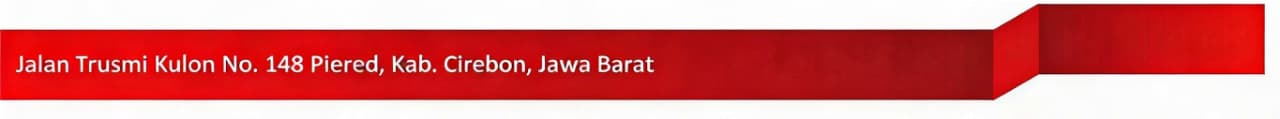
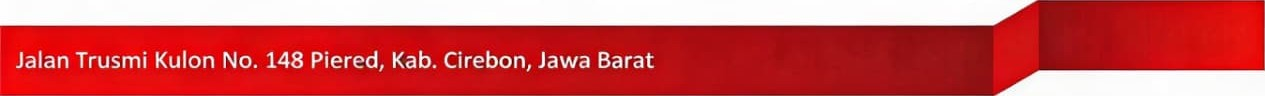
V11

diff --git a/index.html b/index.html
@@ -175,11 +175,22 @@ h5 {
 }
 
 /* ===== FOOTER MERAH ===== */
-.footer {
-  position:absolute;
-  bottom:0;
-  left:20mm;
-  width:calc(100% - 40mm); /* kiri + kanan */
+.surat-footer {
+  position: absolute;
+  bottom: 0;
+
+  left: -14.5mm;
+  width: calc(100% + 29mm);
+}
+
+.surat-footer img {
+  width: 100%;
+  height: auto;
+  display: block;
+}
+
+.footer-inner {
+  width: 100%;
 }
 
 .footer img {
@@ -861,9 +872,47 @@ body {
   box-shadow: 0 8px 20px rgba(0, 200, 83, 0.4);
 }
 
+.drop-area {
+  border: 2px dashed #c90000;
+  border-radius: 12px;
+  padding: 20px;
+  text-align: center;
+  cursor: pointer;
+  background: #fff5f5;
+  transition: 0.3s;
+}
+
+.drop-area:hover {
+  background: #ffe5e5;
+}
+
+.drop-area.dragover {
+  background: #ffd6d6;
+  border-color: #ff0000;
+}
+
+.lampiran-preview {
+  display: grid;
+  grid-template-columns: repeat(auto-fill, minmax(100px,1fr));
+  gap: 10px;
+  margin-top: 10px;
+}
+
+.lampiran-preview img {
+  width: 100%;
+  height: 80px;
+  object-fit: cover;
+  border-radius: 8px;
+  border: 1px solid #ddd;
+}
+
+
+
 </style>
 </head>
 <body>
+
+<div id="topLoader"></div>
 
 <div id="sidebar">
   <div class="sidebar-header">
@@ -1033,8 +1082,12 @@ body {
         <input type="file" id="ttd2" class="form-control mb-1">
         <input type="file" id="ttd3" class="form-control mb-2">
 
-        <div class="section-title">Lampiran</div>
-        <input type="file" id="lampiran" multiple class="form-control mb-2">
+        <div id="dropArea" class="drop-area">
+  <p>Drag & Drop gambar di sini<br>atau klik untuk upload</p>
+  <input type="file" id="lampiran" multiple hidden>
+</div>
+
+<div id="previewLampiran" class="lampiran-preview"></div>
 
         <button onclick="generate()" class="btn btn-danger w-100">Generate Dokumen</button>
         <button onclick="simpanPDF()" class="btn btn-success w-100 mt-2">
@@ -1444,7 +1497,7 @@ if(jenis==='adendum' && kejadian.trim()){
 }
 
 /* ===== LAMPIRAN FIX (TIDAK KE-CROP) ===== */
-let lampiranFiles = document.getElementById('lampiran').files;
+let lampiranFiles = filesArray;
 let total = lampiranFiles.length;
 
 // tentukan kolom
@@ -1630,6 +1683,85 @@ ${foot()}
 
 document.getElementById('output').innerHTML=page1+page2;
 }
+
+const dropArea = document.getElementById("dropArea");
+const inputFile = document.getElementById("lampiran");
+const previewBox = document.getElementById("previewLampiran");
+
+let filesArray = [];
+
+// klik = buka file
+dropArea.addEventListener("click", () => inputFile.click());
+
+// drag over
+dropArea.addEventListener("dragover", (e) => {
+  e.preventDefault();
+  dropArea.classList.add("dragover");
+});
+
+// drag leave
+dropArea.addEventListener("dragleave", () => {
+  dropArea.classList.remove("dragover");
+});
+
+// drop file
+dropArea.addEventListener("drop", (e) => {
+  e.preventDefault();
+  dropArea.classList.remove("dragover");
+
+  const files = Array.from(e.dataTransfer.files);
+  handleFiles(files);
+});
+
+// pilih manual
+inputFile.addEventListener("change", () => {
+  handleFiles(Array.from(inputFile.files));
+});
+
+// proses file
+function handleFiles(files){
+  files.forEach(file => {
+    if(file.type.startsWith("image/")){
+      filesArray.push(file);
+    }
+  });
+
+  renderPreview();
+}
+
+// tampilkan preview
+function renderPreview(){
+  previewBox.innerHTML = "";
+
+  filesArray.forEach((file, index) => {
+    let url = URL.createObjectURL(file);
+
+    previewBox.innerHTML += `
+      <div style="position:relative">
+        <img src="${url}">
+        <button onclick="removeFile(${index})" style="
+          position:absolute;
+          top:2px;
+          right:2px;
+          background:red;
+          color:white;
+          border:none;
+          border-radius:50%;
+          width:20px;
+          height:20px;
+          font-size:12px;
+        ">×</button>
+      </div>
+    `;
+  });
+}
+
+// hapus file
+function removeFile(index){
+  filesArray.splice(index,1);
+  renderPreview();
+}
+
 </script>
 </div>
 </body>
